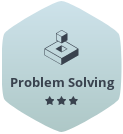
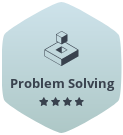
hackerrank problem solving 4 star silver level

diff --git a/public_html/index.html b/public_html/index.html
@@ -276,7 +276,7 @@
 					<div>
 						<table style="text-align: center;">
 							<tr><td><img src="resource/image/certificates/hackerrank_problem_solving_silver_level.png" alt="Hackerrank Problem Solving Silver level"></td></tr>
-							<tr><td><a href="https://www.hackerrank.com/fanzeng" class="center_h">Hackerrank Problem Solving Silver level</a></td></tr>
+							<tr><td><a href="https://www.hackerrank.com/fanzeng" class="center_h">Hackerrank Problem Solving 4 Star Silver level</a></td></tr>
 						</table>
 					</div>
 				</div>
